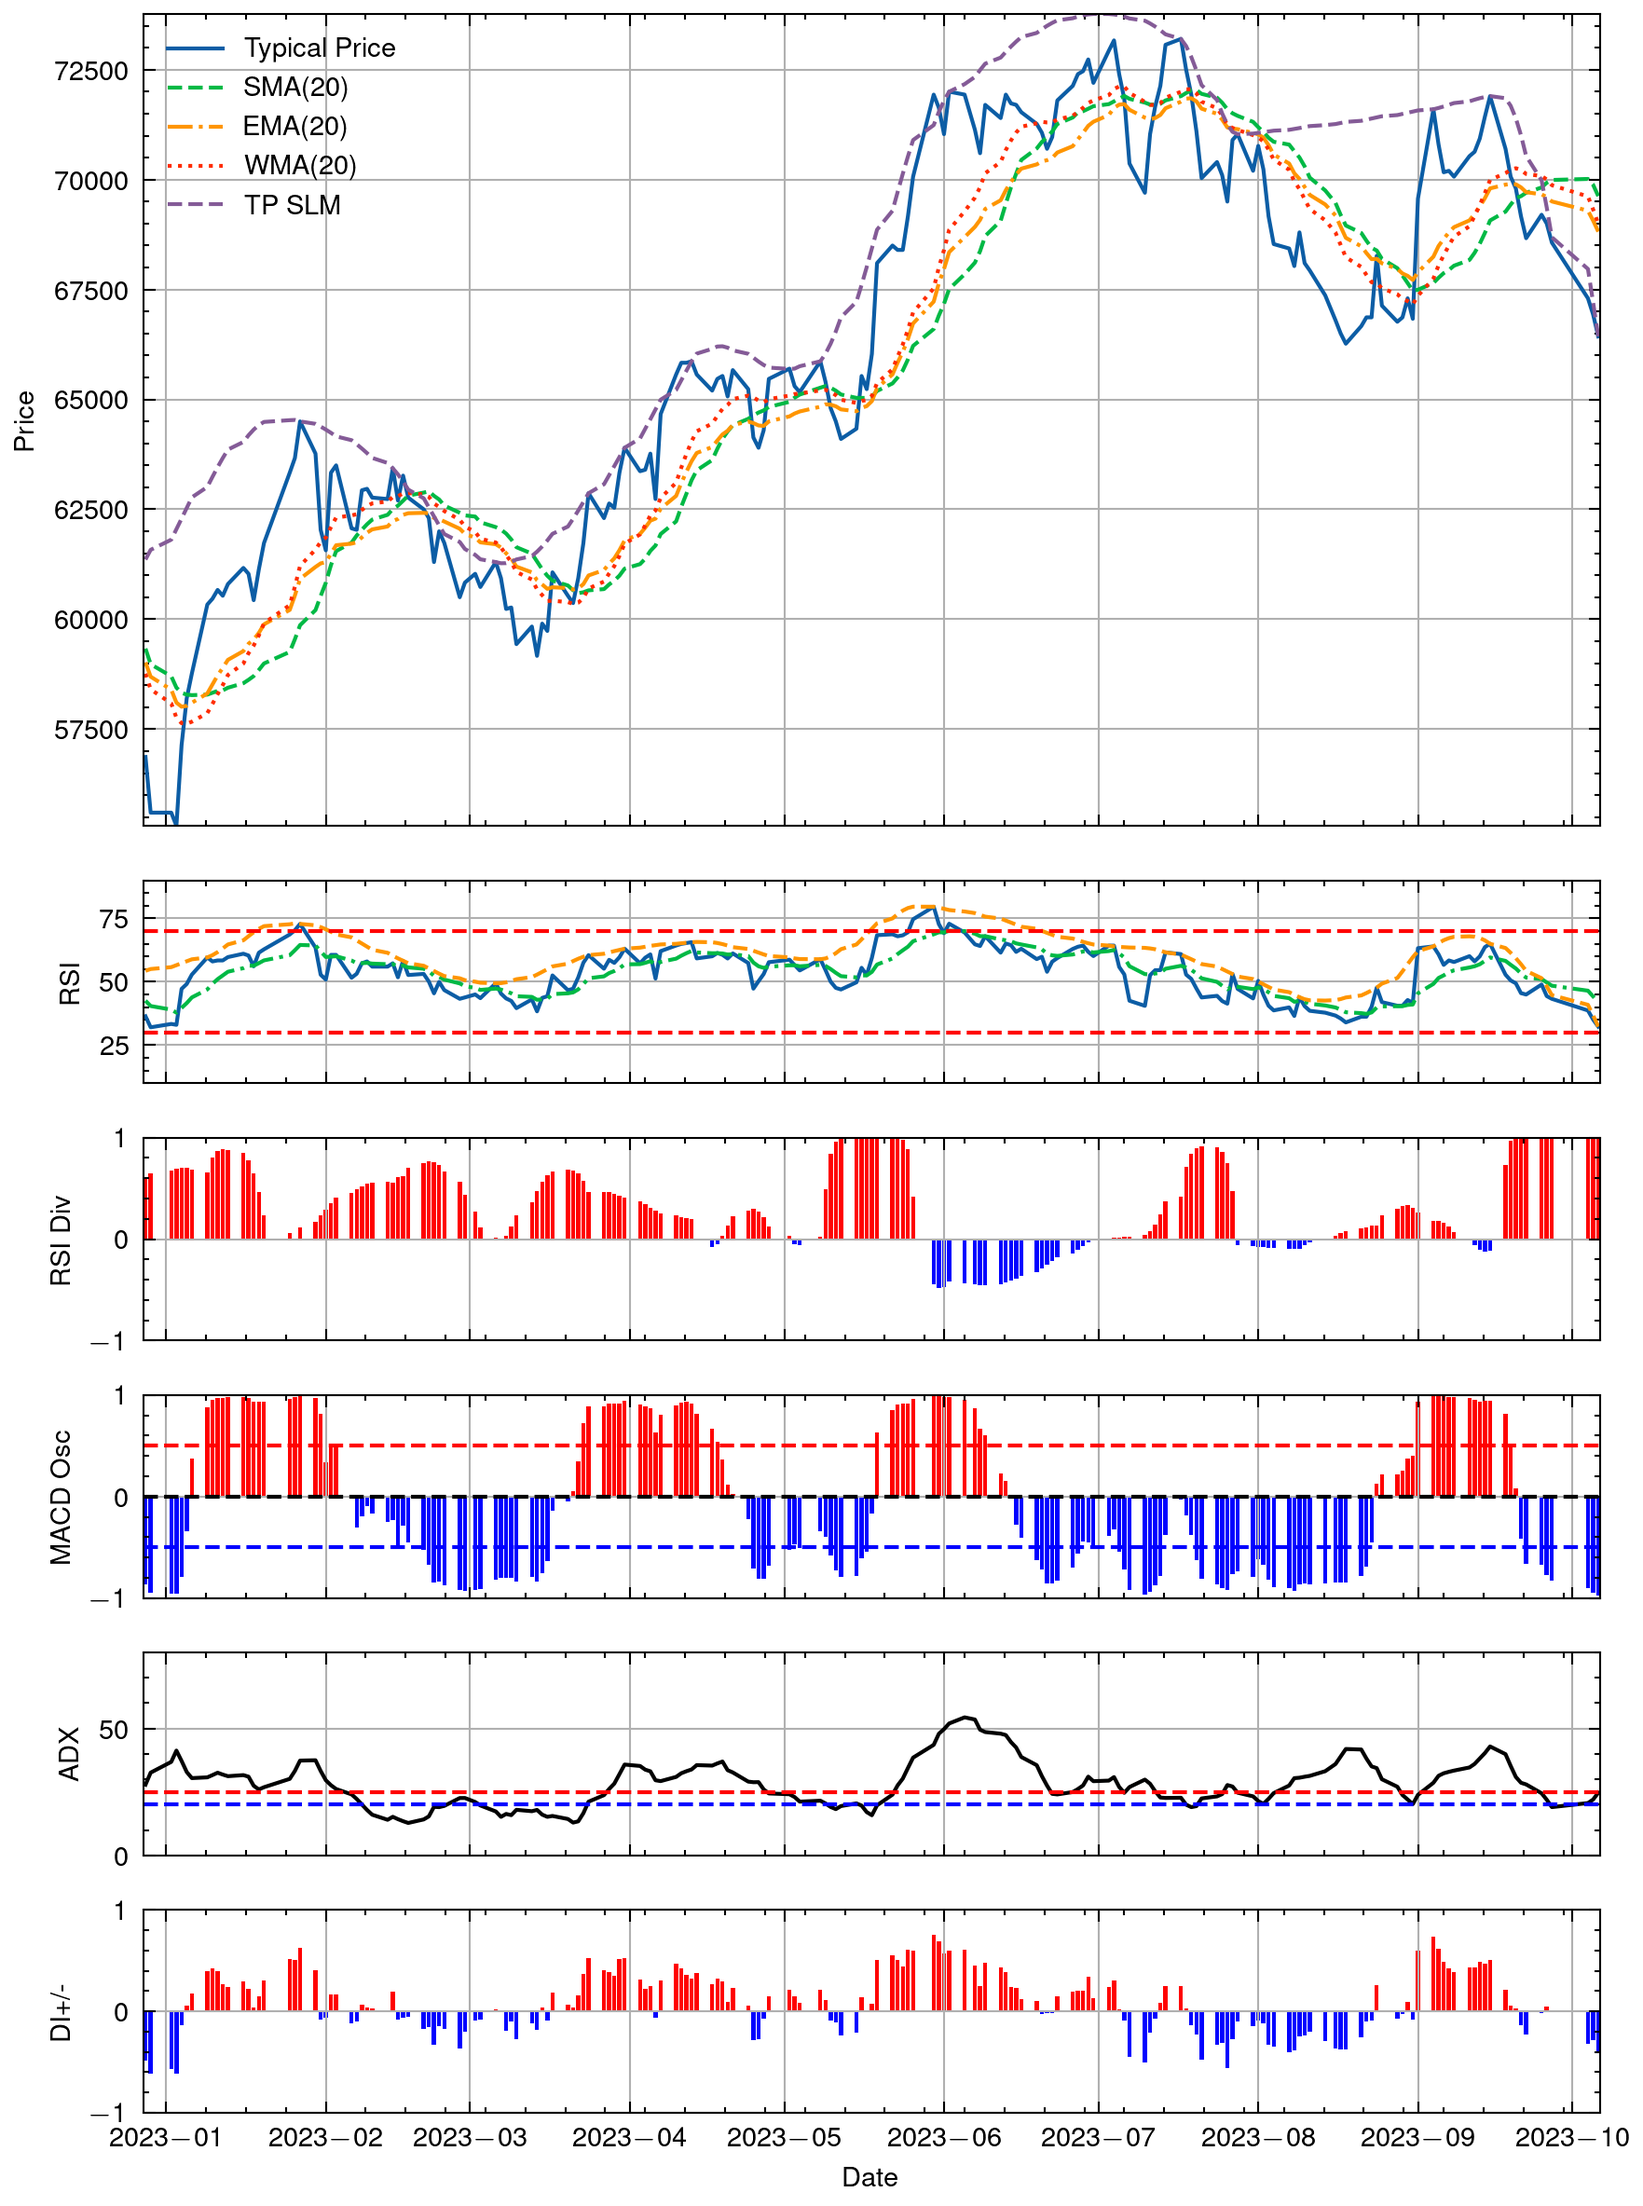
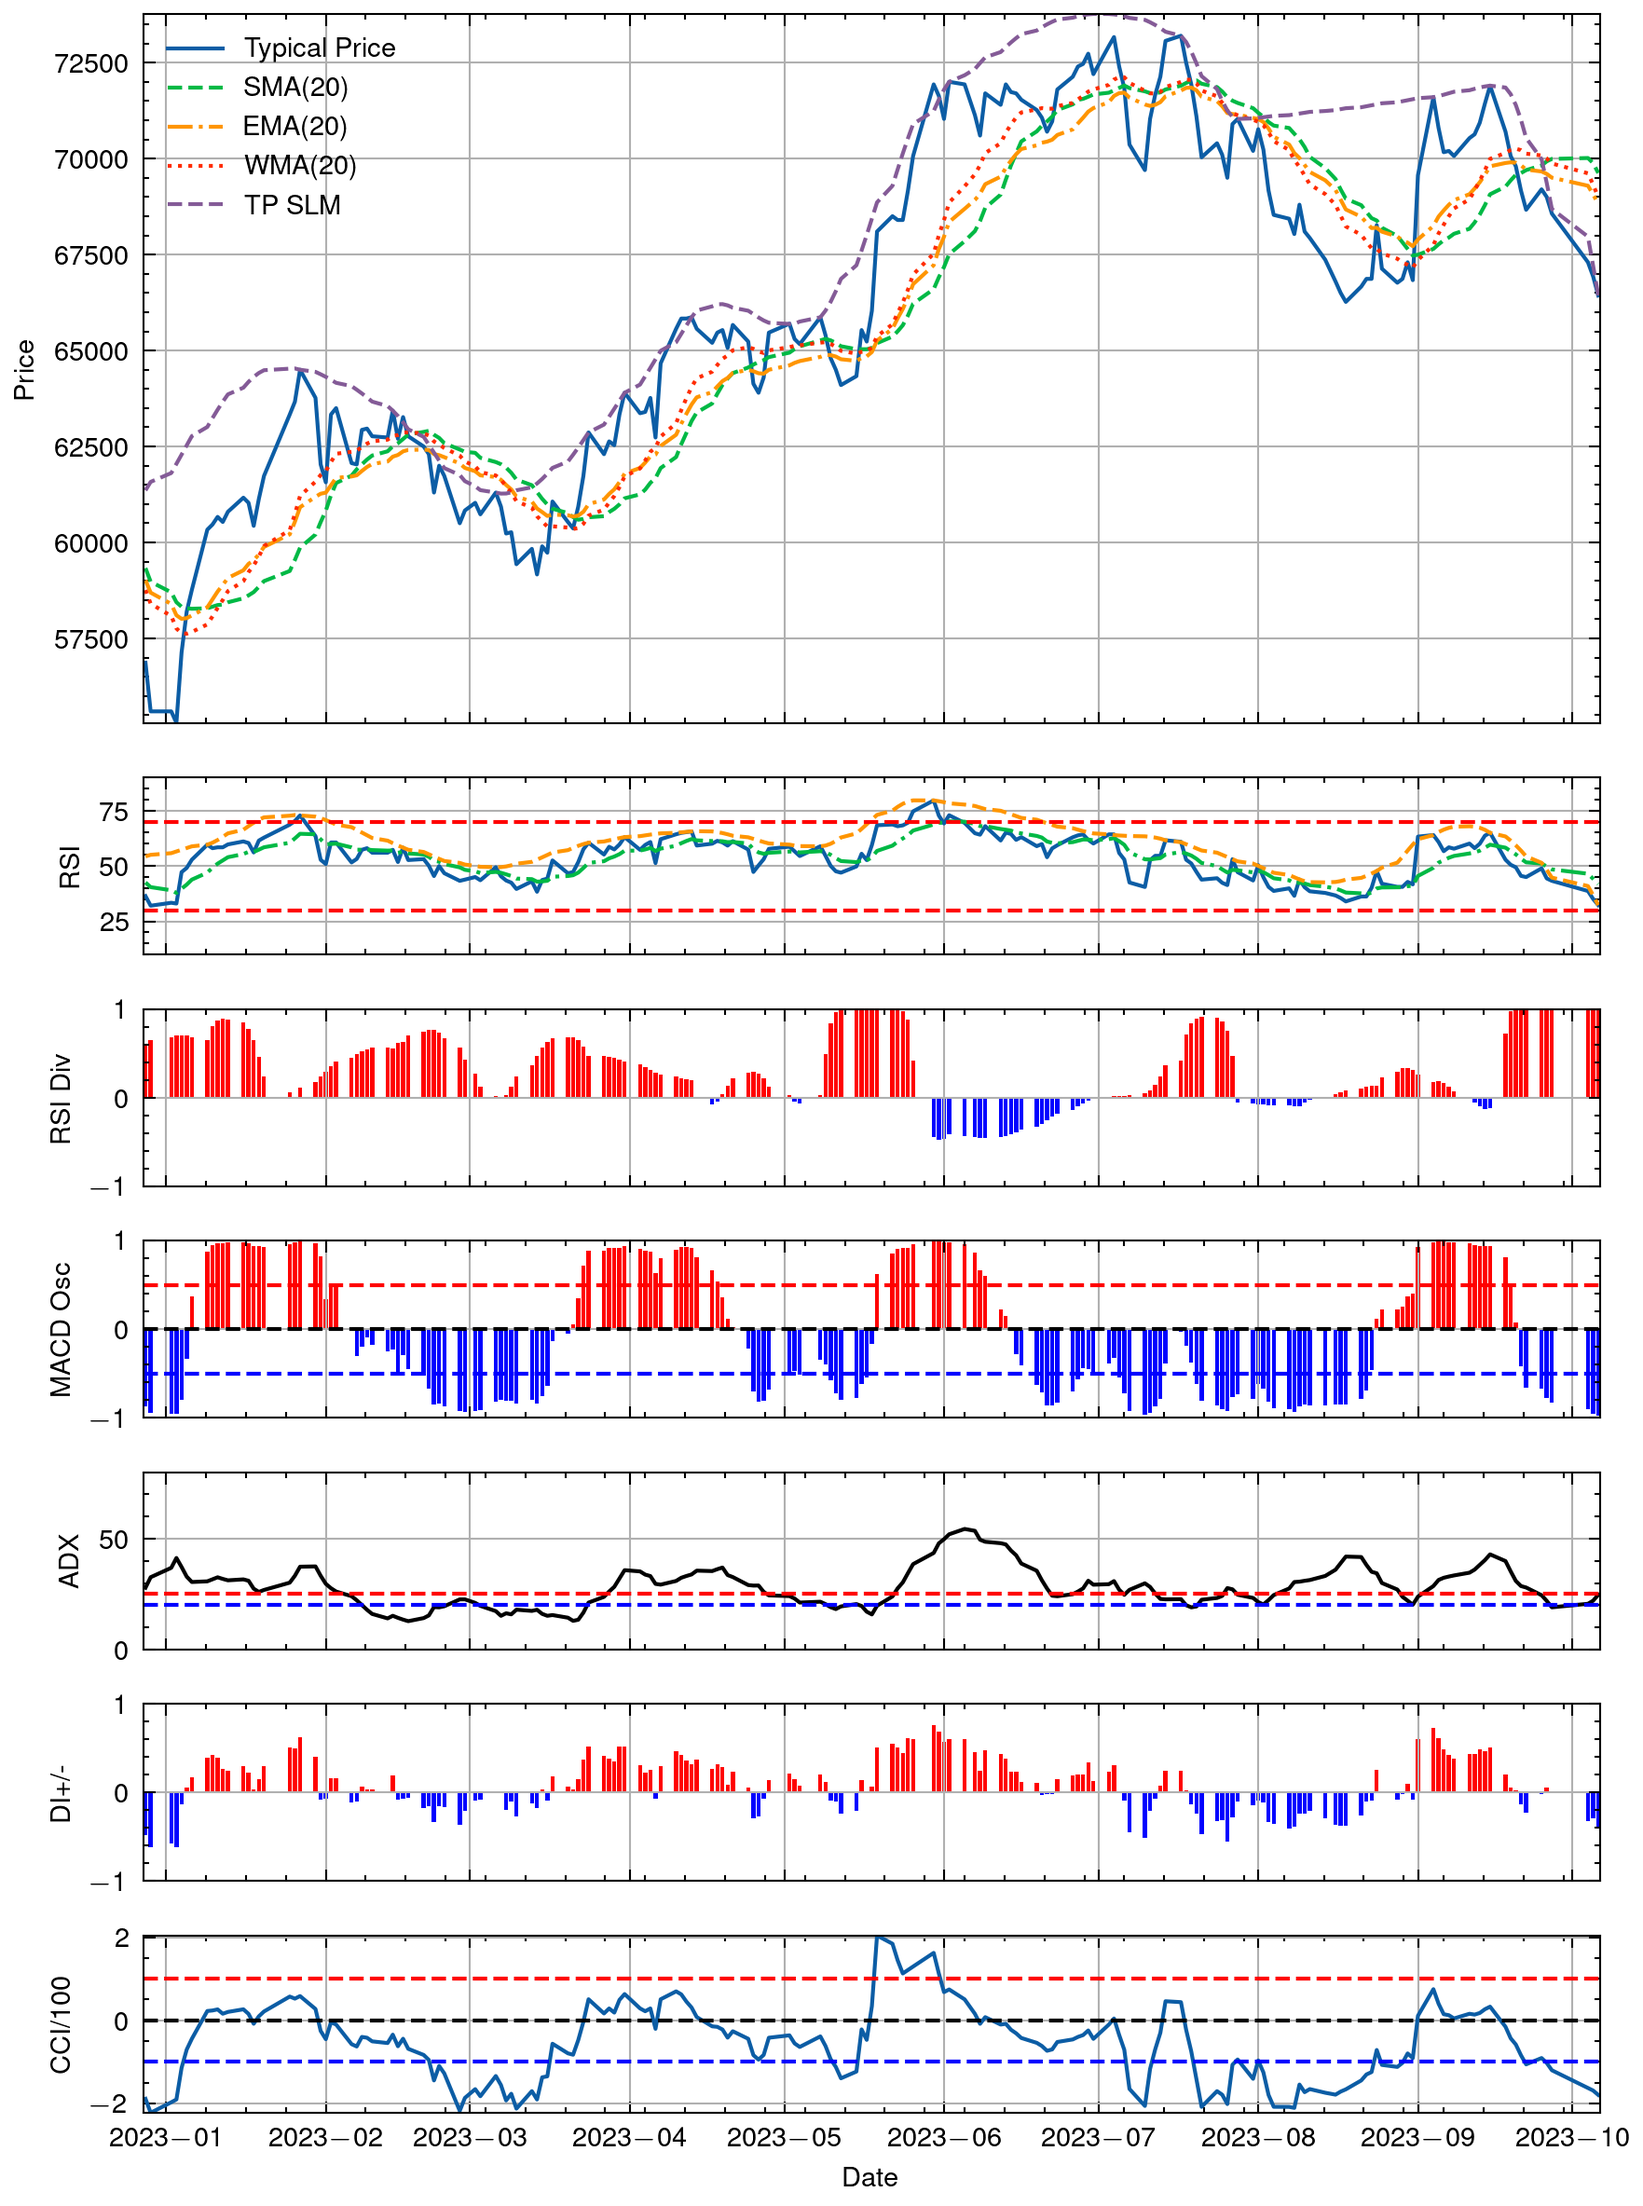
Implement CCI

Changed region(s): [[0.0, 0.0, 0.9983, 0.8635], [0.0312, 0.8635, 0.9671, 0.9561], [0.9671, 0.1234, 0.9983, 0.1542]]

diff --git a/script/ta_plot.py b/script/ta_plot.py
@@ -33,11 +33,11 @@ di_plus = df['di_plus']
 di_minus = df['di_minus']
 k = df['k']
 d = df['d']
-#rsi2 = dg['rsi']
+cci = df['cci']
 
 # Plot
 with plt.style.context(["science", "nature"]):
-    fig, axs = plt.subplots(6, 1, figsize=(6, 8), sharex=True, gridspec_kw={'height_ratios': [4, 1, 1, 1, 1, 1]})
+    fig, axs = plt.subplots(7, 1, figsize=(6, 8), sharex=True, gridspec_kw={'height_ratios': [4, 1, 1, 1, 1, 1, 1]})
     axs[0].autoscale(tight=True)
     axs[0].plot(x, tp, label='Typical Price')
     axs[0].plot(x, sma, '--', label='SMA(20)')
@@ -105,9 +105,17 @@ with plt.style.context(["science", "nature"]):
     axs[5].bar(x, di_up, color='r', width=0.8)
     axs[5].bar(x, di_down, color='b', width=0.8)
     axs[5].set_ylim([-1, 1])
-    axs[5].set_xlabel("Date")
     axs[5].set_ylabel("DI+/-")
     axs[5].grid(True)
+
+    axs[6].autoscale(tight=True)
+    axs[6].plot(x, cci / 100, label='CCI')
+    axs[6].axhline(y=1, color='r', linestyle='--')
+    axs[6].axhline(y=0, color='k', linestyle='--')
+    axs[6].axhline(y=-1, color='b', linestyle='--')
+    axs[6].set_xlabel("Date")
+    axs[6].set_ylabel("CCI/100")
+    axs[6].grid(True)
 
     #axs[6].autoscale(tight=True)
     #axs[6].plot(x, k, label='\%K')

diff --git a/src/main.rs b/src/main.rs
@@ -1,6 +1,6 @@
 use peroxide::fuga::*;
 use fmp::api::HistoricalPriceFull;
-use fmp::ta::{sma, ema, wma, rsi, macd, adx_dmi, stochastic, divergence};
+use fmp::ta::{sma, ema, wma, rsi, macd, adx_dmi, stochastic, divergence, cci};
 use std::env::args;
 
 fn main() -> Result<(), Box<dyn std::error::Error>> {
@@ -31,6 +31,7 @@ fn main() -> Result<(), Box<dyn std::error::Error>> {
     let macd_signal = ema(&macd_, 9);
     let (adx_, di_plus, di_minus) = adx_dmi(&high, &low, &close, 14);
     let (k, d) = stochastic(&high, &low, &close, 14, 3);
+    let cci_ = cci(&high, &low, &close, 20);
 
     // Result
     let date = date[240..].to_vec();
@@ -49,6 +50,7 @@ fn main() -> Result<(), Box<dyn std::error::Error>> {
     let di_minus = di_minus[240..].to_vec();
     let k = k[240..].to_vec();
     let d = d[240..].to_vec();
+    let cci_ = cci_[240..].to_vec();
 
     let mut dg = DataFrame::new(vec![]);
     dg.push("date", Series::new(date));
@@ -69,6 +71,7 @@ fn main() -> Result<(), Box<dyn std::error::Error>> {
     dg.push("di_minus", Series::new(di_minus));
     dg.push("k", Series::new(k));
     dg.push("d", Series::new(d));
+    dg.push("cci", Series::new(cci_));
 
     dg.print();
 

diff --git a/src/ta.rs b/src/ta.rs
@@ -260,3 +260,15 @@ pub fn divergence(v: &[f64]) -> (Vec<f64>, Vec<f64>) {
     let slope = cs.derivative().eval_vec(&idx.fmap(|x| x as f64));
     (div, slope)
 }
+
+/// Commodity Channel Index
+pub fn cci(high: &[f64], low: &[f64], close: &[f64], period: usize) -> Vec<f64> {
+    let mut tp = vec![0f64; high.len()];
+    for i in 0..high.len() {
+        tp[i] = (high[i] + low[i] + close[i]) / 3f64;
+    }
+    let m = sma(&tp, period);
+    let deviation = zip_with(|x, y| x - y, &tp, &m);
+    let d = sma(&deviation.fmap(|x| x.abs()), period);
+    zip_with(|x, y| (x - y) / (0.015 * y), &deviation, &d)
+}
